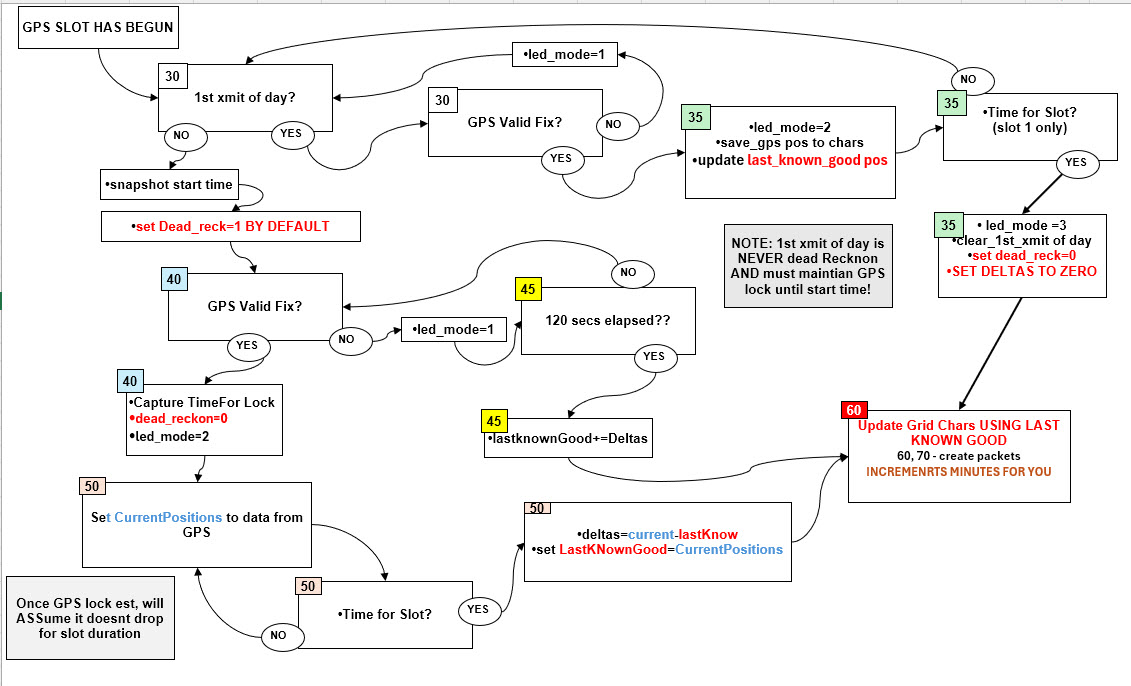
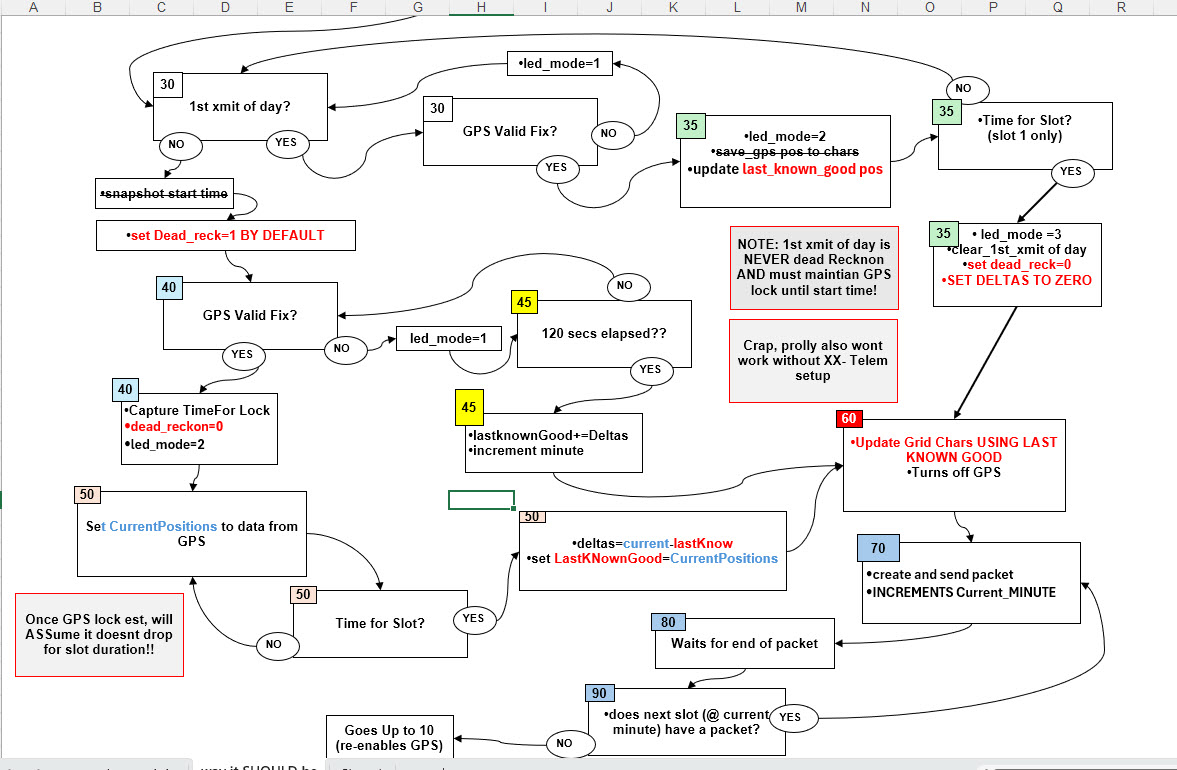
finalized dead reckoning mod

diff --git a/WSPRbeacon.c b/WSPRbeacon.c
@@ -174,7 +174,6 @@ else                                       //if we get here, U4B is enabled
 
 
 		for (int i=0;i < 10;i++) 
-			printf("min: %d the sched is: %d\n", i,schedule[i]); //wuz
 
 
 		if (suffix != 253)    // if Suffix enabled, Do zachtek messages 4 mins BEFORE (ie 6 minutes in future) of u4b (because minus (-) after char to decimal conversion is 253)
@@ -249,7 +248,6 @@ int WSPRbeaconTxScheduler(WSPRbeaconContext *pctx, int verbose)   // called ever
 				lon_delta=0;
 				altitude_snapshot=pctx->_pTX->_p_oscillator->_pGPStime->_altitude;     //save the value for later when used in 2nd packet
 				SEQ=60;
-						printf("35 bout to jump to 60 current min and sec are %d %d, the sched at that min is %d\n",current_minute,current_second,schedule[current_minute]); //wuz
 
 
 			}
@@ -266,7 +264,6 @@ int WSPRbeaconTxScheduler(WSPRbeaconContext *pctx, int verbose)   // called ever
 					dead_reckoning=0;
 					pctx->_txSched.led_mode = 2;
 					SEQ = 50;
-					printf("40 bout to jump to 50 current min and sec are %d %d, the sched at that min is %d\n",current_minute,current_second,schedule[current_minute]); //wuz
 		}
 		else
 		{
@@ -286,7 +283,6 @@ int WSPRbeaconTxScheduler(WSPRbeaconContext *pctx, int verbose)   // called ever
 
 			last_known_good_lat+=lat_delta;
 			last_known_good_lon+=lon_delta;
-			printf("45 bout to jump to 60 current min and sec are %d %d, the sched at that min is %d\n",current_minute,current_second,schedule[current_minute]); //wuz
 			current_minute=(current_minute+2)%10;   //increment
 			SEQ=60;
 		}
@@ -308,9 +304,6 @@ int WSPRbeaconTxScheduler(WSPRbeaconContext *pctx, int verbose)   // called ever
 			lon_delta=(1e-7 * (double)pctx->_pTX->_p_oscillator->_pGPStime->_time_data._i64_lon_100k)-last_known_good_lon;
 			last_known_good_lat=(1e-7 * (double)pctx->_pTX->_p_oscillator->_pGPStime->_time_data._i64_lat_100k);
 			last_known_good_lon=(1e-7 * (double)pctx->_pTX->_p_oscillator->_pGPStime->_time_data._i64_lon_100k);
-
-			printf("50 bout to jump to 60 current min and sec are %d %d, the sched at that min is %d\n",current_minute,current_second,schedule[current_minute]); //wuz
-	
 			SEQ=60;
 		}
 	
@@ -323,7 +316,6 @@ int WSPRbeaconTxScheduler(WSPRbeaconContext *pctx, int verbose)   // called ever
 
 	if (SEQ==60) //GPS Off, VFO ON. also convert last known good positions to characters
 	{
-		printf("\nXMIT ABOUT to start in 60!, Dreckn is: %d xmit_count: %d current min and sec are %d %d, the sched at that min is %d\n",dead_reckoning,xmit_count,current_minute,current_second,schedule[current_minute]); //wuz
 
     char ten_char_grid[10];
 
@@ -344,9 +336,6 @@ int WSPRbeaconTxScheduler(WSPRbeaconContext *pctx, int verbose)   // called ever
 	pctx->grid9=grid9;
 	pctx->grid10=grid10;
 
-	printf("in 60, length of ten_char grid %d contents %s length of pu8 %d contents %s \n",strlen(ten_char_grid),ten_char_grid,strlen(pctx->_pu8_locator),pctx->_pu8_locator); //wuz
-	//printf("in 60, the lat lon %f %f  \n",last_known_good_lat,last_known_good_lon); //wuz
-
 
 		pctx->_txSched.voltage_at_idle=pctx->_txSched.voltage; //save idle voltage
 		start_time= get_absolute_time();  //record start time since GPS will now be off and no more time information
@@ -359,7 +348,6 @@ int WSPRbeaconTxScheduler(WSPRbeaconContext *pctx, int verbose)   // called ever
 	if (SEQ==70) //create and send packet
 	{
 																		if (((pctx->_txSched.verbosity>=3)||(pctx->_pTX->_p_oscillator->_pGPStime->Optional_Debug&(1<<2)))) printf("\nStarting TX. current minute: %i Schedule Value (packet type): %i\n",current_minute,schedule[current_minute]);
-		printf("in 70 about to xmit (and AFTER will incre minute) current min and sec are %d %d, the sched at that min is %d\n",current_minute,current_second,schedule[current_minute]); //wuz
 	
 			pctx->_pTX->_u32_dialfreqhz = XMIT_FREQUENCY;
 			WSPRbeaconCreatePacket(pctx, schedule[current_minute] ); //the schedule determines packet type (1-4 for U4B 1st msg,U4B 2nd msg,Zachtek 1st, Zachtek 2nd)
@@ -388,7 +376,6 @@ int WSPRbeaconTxScheduler(WSPRbeaconContext *pctx, int verbose)   // called ever
 				//start_time = get_absolute_time();     //reset "start_time" so we know when this packet ends
 				start_time = delayed_by_us(start_time, 120000000LL); //reset "start_time" so we know when this packet ends
 				SEQ=70;
-							printf("90 bout to jump to 70 current min and sec are %d %d, the sched at that min is %d\n",current_minute,current_second,schedule[current_minute]); //wuz
 																if (pctx->_pTX->_p_oscillator->_pGPStime->Optional_Debug&(1<<2))printf("going to do aother pak immediately\n");
 			}	
 		else
@@ -396,10 +383,8 @@ int WSPRbeaconTxScheduler(WSPRbeaconContext *pctx, int verbose)   // called ever
 				pctx->_txSched.voltage_at_xmit=pctx->_txSched.voltage; //done xmitting so save voltage during xmit
 				SEQ=10;   //turn GPS back on
 
-							printf("90 bout to jump to 10 current min and sec are %d %d, the sched at that min is %d\n",current_minute,current_second,schedule[current_minute]); //wuz
 
 
-				//first_broadcast_of_the_day=1; //doing this to make sure if it gets no gps lock before next type1 it will wait for the next time
 																				if (pctx->_pTX->_p_oscillator->_pGPStime->Optional_Debug&(1<<2))printf("no pak next, turning GPS back on. time since initial GPS lock: %.1f secs\n",absolute_time_diff_us(start_time_of_GPS_search, get_absolute_time())/1000000.0);			
 		}
 
@@ -417,10 +402,9 @@ int WSPRbeaconCreatePacket(WSPRbeaconContext *pctx,int packet_type)  //1-6.  1: 
 
 	pctx->_u8_txpower =13;               //hardcoded at 13dbM when doing u4b MSG 1
 
-if (dead_reckoning==1) pctx->_u8_txpower =10;                         //wuz ??
+if (dead_reckoning==1) pctx->_u8_txpower =10;                         //send a different power level if dead reckoning. not really needed...
 
 				             if (pctx->_txSched.verbosity>=3){ printf("creating U4B packet 1\n");printf("location for Xmit: %s%c%c%c%c%c%c lat/lon: %lld %lld\n", _4_char_version_of_locator,grid5,grid6,grid7,grid8,grid9,grid10,pctx->_pTX->_p_oscillator->_pGPStime->_time_data._i64_lat_100k,pctx->_pTX->_p_oscillator->_pGPStime->_time_data._i64_lon_100k);}				
-							  printf("creating U4B packet 1 ");printf("location for Xmit: %s%c%c%c%c%c%c lat/lon: %lld %lld\n", _4_char_version_of_locator,grid5,grid6,grid7,grid8,grid9,grid10,pctx->_pTX->_p_oscillator->_pGPStime->_time_data._i64_lat_100k,pctx->_pTX->_p_oscillator->_pGPStime->_time_data._i64_lon_100k); //wuz				
 	wspr_encode(pctx->_pu8_callsign, _4_char_version_of_locator, pctx->_u8_txpower, pctx->_pu8_outbuf, pctx->_txSched.verbosity);   // look in utility.c for wspr_encode
    }
  if (packet_type==2)   // special encoding for 2nd packet of U4B protocol aka "standard" telemetry
@@ -623,7 +607,7 @@ int WSPRbeaconSendPacket(const WSPRbeaconContext *pctx)
 ///////////////////////////////////////////////////////////
 /// @brief Dumps the beacon context to stdio.
 /// @param pctx Ptr to Context.
-void misc_dump(const WSPRbeaconContext *pctx)  //called ~ every 5 secs from main.c if option set to 4  wuz
+void misc_dump(const WSPRbeaconContext *pctx)  //called ~ every 5 secs from main.c if option set to 4  
 {
     //const uint64_t u64tmnow = GetUptime64();
     //StampPrintf("__________________");
